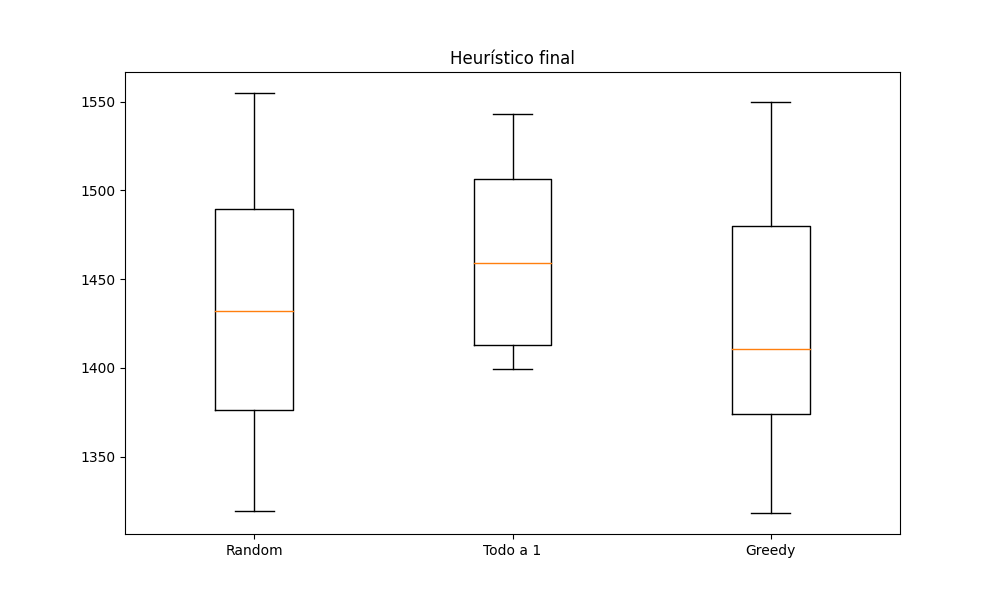
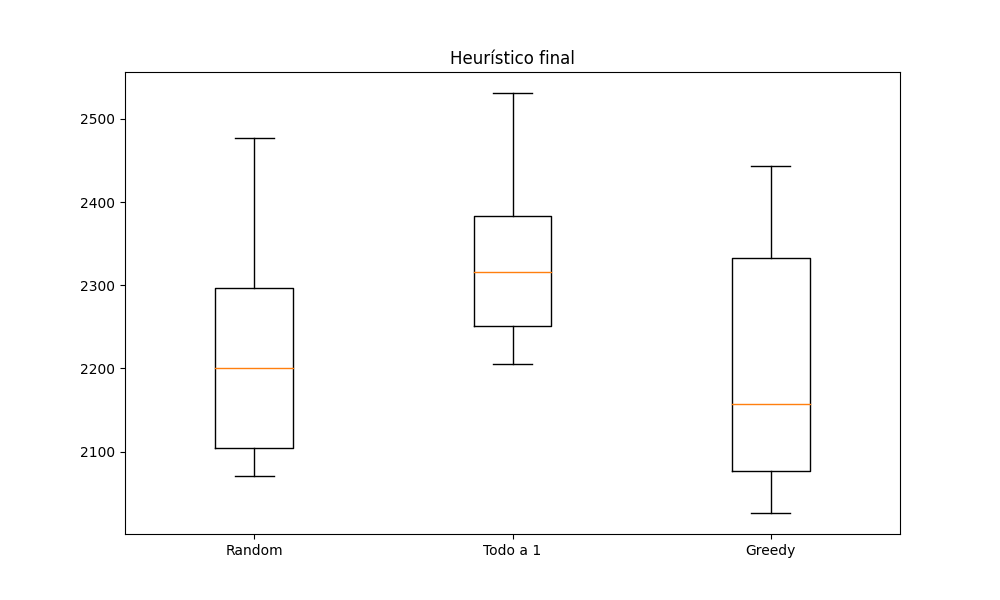
updated graphs

diff --git a/pythonProject/plots.py b/pythonProject/plots.py
@@ -10,11 +10,11 @@ import numpy as np
 import pandas as pd
 
 path_pol = "/home/pol/Downloads/plot.csv"
-path_pol_mac = "/Users/pol/Downloads/ini2.tsv"
+path_pol_mac = "/Users/pol/Downloads/oper.csv"
 
 
 def main():
-    data = pd.read_csv(path_pol_mac, header=1, thousands=',', index_col=6)
+    data = pd.read_csv(path_pol_mac, header=1, thousands=',')
     # data = pd.read_csv(path_pol_mac, sep="\t",header=1, thousands=',')
 
     x_labels = ["Swap", "Reasignar general", "Reasignar reducido", "Swap + general", "Swap + reducido"]
